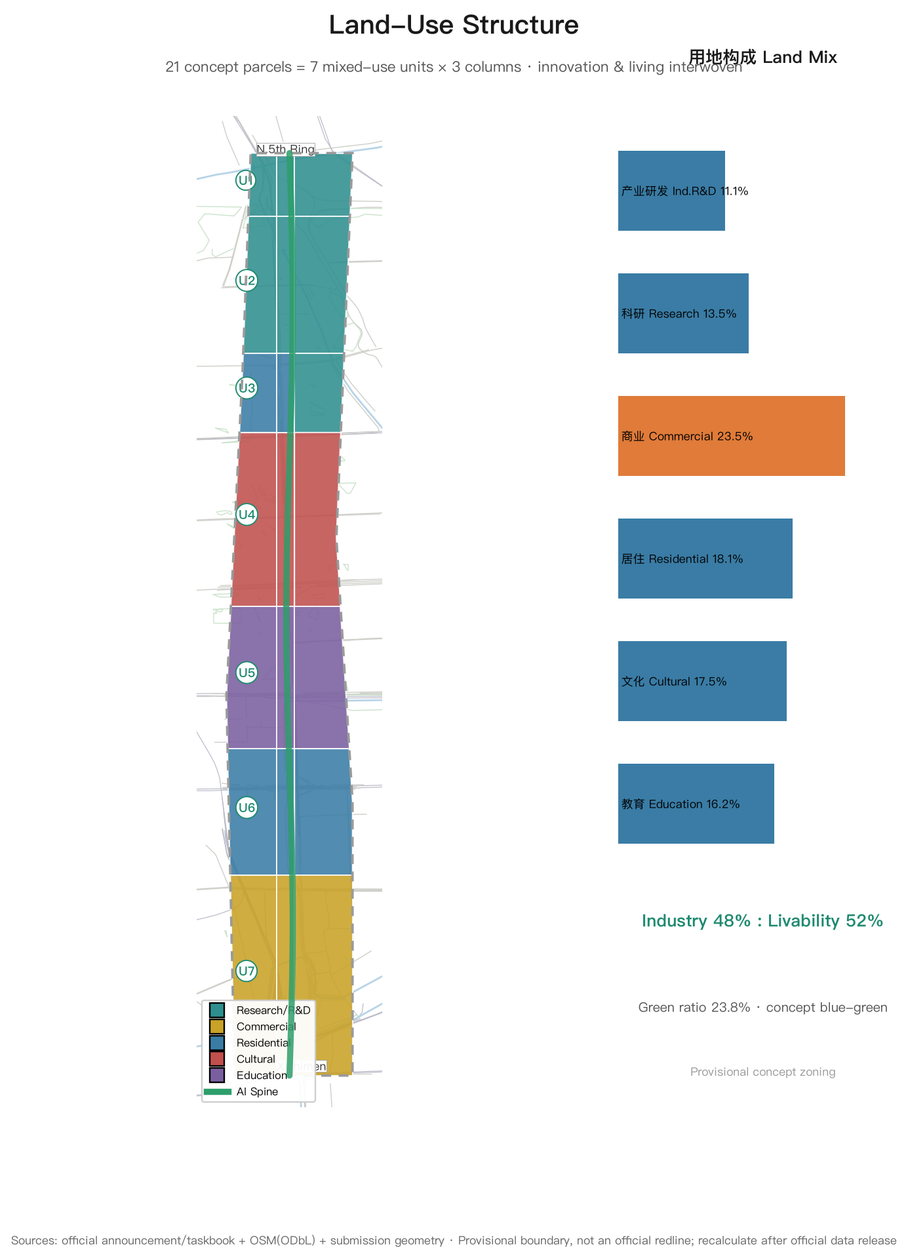
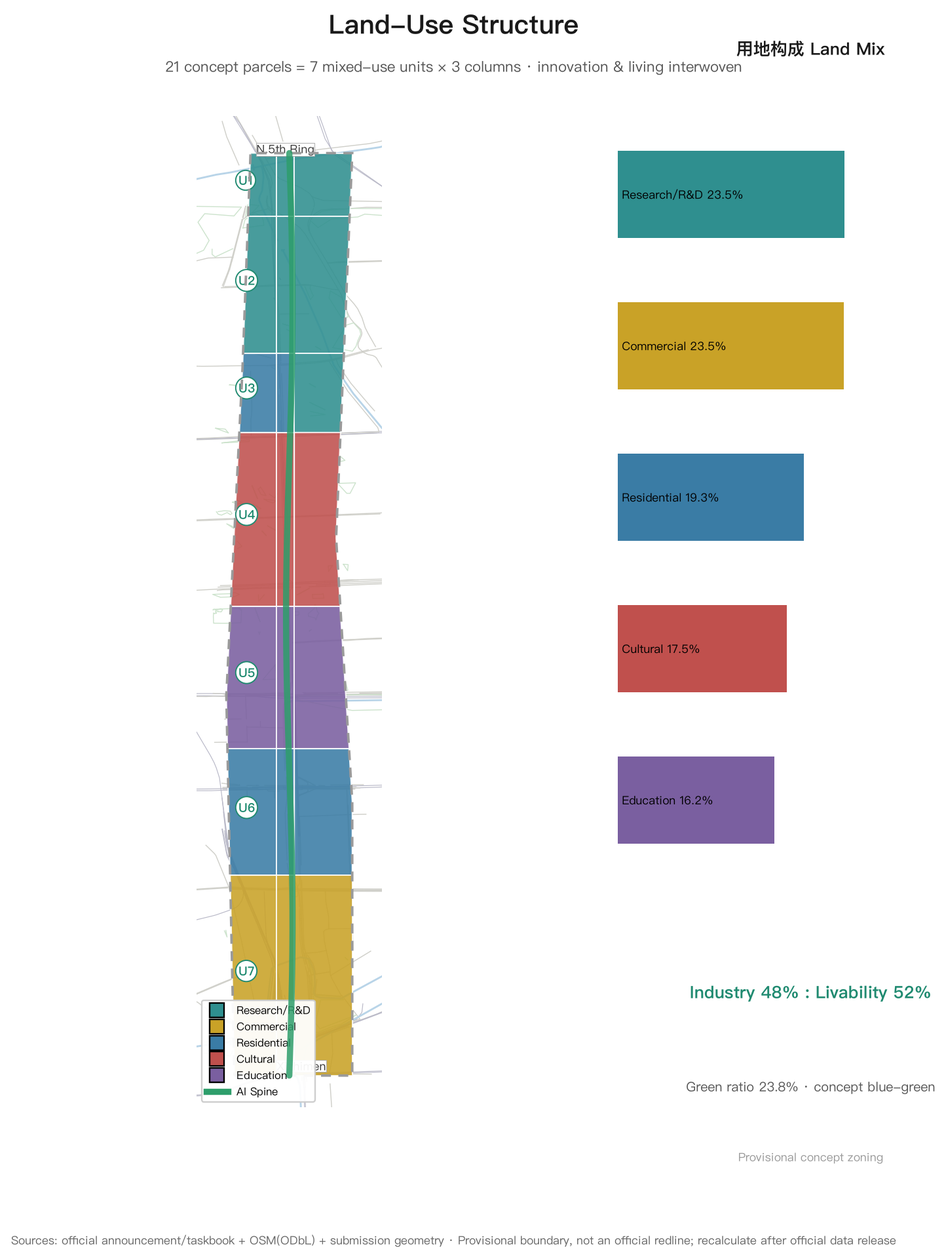
feat: v0.6 全文档一致性对齐+用地结构图配色统一+六条转化机制写实
- iteration v0.1→v0.6（历史遗留）；visual 任务覆盖 8案例/10+→10案例/12场景/6画像（源头同步）
- land-use-structure 用地构成面板改为几何实算 5 类 + C[code] 同色板（主图/图例/面板一致）
- 六条转化机制从一句话归纳扩为机制卡（载体/主体/运作/指标），全部挂接既有章节
- 四门自检 PASS，can_enter_formal_review=true

diff --git a/submissions/haoan/jingzhang-ai-belt/report/proposal.en.html b/submissions/haoan/jingzhang-ai-belt/report/proposal.en.html
@@ -166,9 +166,10 @@ code {
 <li><strong>Nodes</strong>: AI Spine Nodes (15-minute public-space node series)</li>
 </ul>
 <p>Logo direction: the switchback &quot;zigzag&quot; track of the Qinglongqiao on the Jing-Zhang Railway, fused with integrated-circuit traces as a shared graphic motif, expressing the symbiosis of human creation and machine intelligence; palette of railway steel grey-blue and Zhongguancun tech blue. A professional team should deepen the visual identity system (wayfinding, gateway signage, event visuals) [agent.1].</p>
-<h3>Global AI Innovation Ecosystem Cases and Transferable Mechanisms (5-8)</h3>
+<h3>Global AI Innovation Ecosystem Cases and Transferable Mechanisms (10)</h3>
 <div class="proposal-table"><table><thead><tr><th>#</th><th>Case</th><th>Region</th><th>Transferable mechanism</th></tr></thead><tbody><tr><td>1</td><td>Kendall Square</td><td>Boston, USA</td><td>MIT-industry-capital clustering within 500 m; <strong>walkable research-industry circle</strong></td></tr><tr><td>2</td><td>one-north</td><td>Singapore</td><td>Government-led mixed-use R&amp;D community; <strong>work-live-play-learn integrated district governance</strong></td></tr><tr><td>3</td><td>King&#x27;s Cross</td><td>London, UK</td><td>Railway heritage regeneration + tech headquarters (Google et al.); <strong>heritage activation driving industry clustering</strong></td></tr><tr><td>4</td><td>Smart Kalasatama</td><td>Helsinki, Finland</td><td>City district as <strong>open test bed</strong>; agile experimentation and fast iteration</td></tr><tr><td>5</td><td>Nanshan (Yuehai St.)</td><td>Shenzhen, China</td><td>Market-driven hardware/software clustering; <strong>anchor-enterprise ecosystem spillover</strong></td></tr><tr><td>6</td><td>Hangzhou Future Sci-Tech City</td><td>Hangzhou, China</td><td>Digital economy + talent policies; <strong>industry-talent-scenario triad</strong></td></tr><tr><td>7</td><td>Pangyo Techno Valley</td><td>Gyeonggi, Korea</td><td>Government-planned tech valley + smart-city testing; <strong>showcase-driven spatial marketing</strong></td></tr><tr><td>8</td><td>Zhongguancun Software Park</td><td>Beijing, China</td><td>Local experience: <strong>anchor enterprises + professional park operating companies</strong></td></tr><tr><td>9</td><td>Station F</td><td>Paris, France</td><td>Railway heritage converted into the world&#x27;s largest startup campus: <strong>heritage space hosting startup ecosystem + corporate accelerators</strong></td></tr><tr><td>10</td><td>Shenzhen Bay Tech Eco-Park</td><td>Shenzhen, China</td><td>Industry-city integration: R&amp;D offices + talent apartments + public space in one, &quot;<strong>park as community</strong>&quot; operations</td></tr></tbody></table></div>
-<p>Six transferable mechanisms: ① walkable research-industry circles (&lt;15-min walking chain); ② mixed use and talent housing (industry-livability balance); ③ heritage activation as innovation container (railway heritage → innovation corridor); ④ open test beds and scenario release mechanisms; ⑤ anchor-enterprise ecosystem chains plus professional park operators; ⑥ event branding linked to spatial marketing. All cases are background factual references <sup class="evidence evidence-source" data-evidence-kind="source" data-evidence-value="DATA-SRC-GLOBAL-CASES" title="Source: DATA-SRC-GLOBAL-CASES">Source</sup>; only mechanisms are drawn, never copied forms [agent.2].</p>
+<p>All cases are background factual references <sup class="evidence evidence-source" data-evidence-kind="source" data-evidence-value="DATA-SRC-GLOBAL-CASES" title="Source: DATA-SRC-GLOBAL-CASES">Source</sup>; only mechanisms are drawn, never copied forms [agent.2]. The six transferable mechanisms are concretized below (all conceptual, linked to the main chapters):</p>
+<div class="proposal-table"><table><thead><tr><th>#</th><th>Mechanism</th><th>Spatial carrier (concept)</th><th>Actors (concept)</th><th>Operation points (concept)</th><th>Measurable direction (concept)</th></tr></thead><tbody><tr><td>①</td><td>Walkable research-industry circles (&lt;15-min chain)</td><td>AI-Spine stations × shared labs, university north-gate nodes, Origin Plaza</td><td>Universities/institutes, developer community, park operator, student founders</td><td>Co-located joint labs bound to AI-Spine stations; university courses and internships enter the open test bed; professors and student representatives join the human review committee [agent.3]</td><td>Number of joint industry-academia projects, shared lab seats, universities covered per circle</td></tr><tr><td>②</td><td>Mixed use and talent housing</td><td>Residential clusters inside AI-Spine units, low-cost innovation spaces</td><td>Local government, park operator, housing operators</td><td>Talent and founder apartments allocated per unit (concept); 48:52 industry-livability total check; targeted rent safeguards <sup class="evidence evidence-depth" data-evidence-kind="depth" data-evidence-value="phasing_implementation" title="Depth: phasing_implementation">Depth</sup></td><td>Talent housing units, jobs-housing balance index</td></tr><tr><td>③</td><td>Heritage activation as innovation container</td><td>Qinghuayuan station node, heritage-park station buildings, rail exhibition corridor</td><td>Heritage authorities, park operator, cultural institutions</td><td>Station activation list (concept): waiting hall→incubator, platform→gallery, rails→slow exhibition axis; compliant with heritage and character control <sup class="evidence evidence-standard" data-evidence-kind="standard" data-evidence-value="MOHURD-URBAN-DESIGN-MEASURES" title="Standard: MOHURD-URBAN-DESIGN-MEASURES">Standard</sup></td><td>Activated nodes, annual cultural events</td></tr><tr><td>④</td><td>Open test beds and scenario release</td><td>Zhongzhiyuan open test bed, scenario filing platform</td><td>Enterprises, developers, human review committee</td><td>Full lifecycle of scenario cards (filing→trial→monitoring→formalize/exit); KPI thresholds and exit ledger in the Implementation Assurance System [agent.3]</td><td>Scenarios under test, formalization rate</td></tr><tr><td>⑤</td><td>Anchor-enterprise chains + professional park operators</td><td>Dazhongsi Smart Bazaar, Zhongguancun service wing</td><td>Anchor enterprises, AI-Spine operating company, industry funds</td><td>Triangle operation model (government guidance/park operator/developer co-creation); anchor-chain completion with operator-supplied space and compliance services [agent.6]</td><td>Ecosystem-chain coverage, tenant count</td></tr><tr><td>⑥</td><td>Event branding linked to spatial marketing</td><td>Milestone Plaza, open-source gallery, annual event system</td><td>Park operator, developer community, media</td><td>Annual open-source festival / benchmark release / Jing-Zhang Declaration summit (concept); events linked with the OMP honor system; space as marketing carrier [agent.6]</td><td>Annual events, brand exposure count</td></tr></tbody></table></div>
 <h3>Coordinated-Level Structure: Three Cores, Two Wings Synergy Loop</h3>
 <p>The coordinated research area forms a &quot;<strong>one spine, three cores, two wings, cross linkage</strong>&quot; structure:</p>
 <ul>
@@ -248,7 +249,7 @@ code {
 <h2>AI Innovation Ecosystem, Personas, and AI+ Scenarios</h2>
 <h3>AI Innovation Ecosystem</h3>
 <p>Ecosystem elements are organized along eight factors — &quot;<strong>land, space, industry, capital, talent, computing, data, scenarios</strong>&quot;: land/space (three-core/two-wing land guarantee); industry (foundation-model–application–service chain); capital (Zhongguancun IP and capital enablement, Capital &amp; IP Wing); talent (talent apartments + founder apartments + university collaboration); computing (public computing platform, concept); data (public data space with compliant governance); scenarios (Scenario Wing open test beds and scenario release mechanism) [agent.2].</p>
-<h3>User Personas (5)</h3>
+<h3>User Personas (6)</h3>
 <div class="proposal-table"><table><thead><tr><th>Persona</th><th>Profile</th><th>Spatial needs</th><th>Scenario mapping</th></tr></thead><tbody><tr><td>AI engineer/researcher</td><td>25-40, highly educated, long hours</td><td>15-min walk circle, 24h third spaces, low-cost labs</td><td>Shared labs, night-vitality streets</td></tr><tr><td>Founder/entrepreneur</td><td>30-45, capital and hiring driven</td><td>Incubators, pitch spaces, investor clusters</td><td>Origin Plaza pitches, industry service hall</td></tr><tr><td>University student</td><td>18-28, internship and social driven</td><td>Affordable food, public study spaces, events</td><td>AI education lab, hackathons</td></tr><tr><td>Local resident (incl. elderly)</td><td>all ages, daily-life driven</td><td>Markets, parks, barrier-free facilities</td><td>Barrier-free AI services, health navigation</td></tr><tr><td>Developer/visitor</td><td>global, event driven</td><td>Transit connection, wayfinding, commemorative experiences</td><td>AI cultural guide, Open-Source Gallery</td></tr><tr><td>New-economy workers (riders/drivers)</td><td>all-day mobile, rest/recharge driven</td><td>Node charging/water/rest/first aid</td><td>Node services, delivery coordination</td></tr></tbody></table></div>
 <h3>AI Scenario Cards (12, incl. 3 testing/validation scenarios)</h3>
 <div class="proposal-table"><table><thead><tr><th>#</th><th>Scenario card</th><th>Type</th><th>Spatial anchor</th><th>Users</th><th>Data/privacy boundary</th><th>Human review</th><th>Suggested operator</th></tr></thead><tbody><tr><td>1</td><td>AI Spine shuttle (AI+transport)</td><td><strong>Testing</strong></td><td>AI Spine Corridor</td><td>Commuters/visitors</td><td>Anonymous trajectory aggregation</td><td>Transport authority + public participation</td><td>Professional operator</td></tr><tr><td>2</td><td>Campus autonomous shuttle (AI+transport)</td><td><strong>Testing</strong></td><td>Zhongzhiyuan</td><td>Staff/visitors</td><td>Anonymous, campus-limited</td><td>Safety regulator + human fallback</td><td>Test operator</td></tr><tr><td>3</td><td>Delivery robots (AI+daily life)</td><td><strong>Testing</strong></td><td>Xiaoyuehe Wing</td><td>Residents</td><td>No indoor data collection</td><td>Manual pickup fallback</td><td>Delivery platform + property</td></tr><tr><td>4</td><td>AI health navigation (AI+health)</td><td>Application</td><td>Dazhongsi</td><td>Residents/elderly</td><td>Health data localized</td><td>Medical professional review</td><td>Medical + community</td></tr><tr><td>5</td><td>AI education lab (AI+education)</td><td>Application</td><td>Education belt</td><td>Students</td><td>Minor data protection</td><td>Teacher on site</td><td>Universities + industry</td></tr><tr><td>6</td><td>AI legal kiosk (AI+law)</td><td>Application</td><td>Public space</td><td>Founders</td><td>Anonymous consultations</td><td>Lawyer duty review</td><td>Law firms + platforms</td></tr><tr><td>7</td><td>Jing-Zhang AI cultural guide (AI+culture)</td><td>Application</td><td>AI Spine Corridor</td><td>Visitors</td><td>No personal data</td><td>Historian review</td><td>Cultural operator</td></tr><tr><td>8</td><td>City-agent operations center (AI+governance)</td><td>Application</td><td>Zhongzhiyuan</td><td>Managers</td><td>Compliant public data</td><td>Human decision confirmation</td><td>Government + professionals</td></tr><tr><td>9</td><td>AI security patrol (AI+public safety)</td><td>Application</td><td>Whole belt</td><td>Residents</td><td>Minimized video data</td><td>Control-room human review</td><td>Property/police cooperation</td></tr><tr><td>10</td><td>Enterprise service co-pilot (AI+services)</td><td>Application</td><td>Dazhongsi/Zhongguancun Wing</td><td>Enterprises</td><td>Authorized enterprise data</td><td>Service staff review</td><td>Park operator</td></tr><tr><td>11</td><td>AI elder companionship (AI+daily life)</td><td>Application</td><td>AI Spine Nodes</td><td>Elderly residents</td><td>Localized data, family consent</td><td>Community staff + family review</td><td>Community + operator</td></tr><tr><td>12</td><td>Smart public-space maintenance (AI+O&amp;M)</td><td>Application</td><td>Spine corridor green spaces</td><td>All users</td><td>Anonymous environment sensing</td><td>Human maintenance review</td><td>Park operator</td></tr></tbody></table></div>

diff --git a/submissions/haoan/jingzhang-ai-belt/report/proposal.html b/submissions/haoan/jingzhang-ai-belt/report/proposal.html
@@ -166,9 +166,10 @@ code {
 <li><strong>节点</strong>：智脉驿站（AI Spine Node，15 分钟公共空间节点系列）</li>
 </ul>
 <p>Logo 方向：以京张铁路青龙桥&quot;人&quot;字形展线的轨道线形与集成电路走线同构为图形母题，形成&quot;人字轨+电路&quot;双意象，呼应&quot;人的创造&quot;与&quot;机器智能&quot;的共生；主色取京张铁路钢轨灰蓝与中关村科技蓝。视觉识别系统（导视、门户标识、活动视觉）建议由专业团队深化 [agent.1]。</p>
-<h3>全球 AI 创新生态案例与可转化机制（5-8 个）</h3>
+<h3>全球 AI 创新生态案例与可转化机制（10 个）</h3>
 <div class="proposal-table"><table><thead><tr><th>#</th><th>案例</th><th>地区</th><th>可转化机制</th></tr></thead><tbody><tr><td>1</td><td>Kendall Square</td><td>美国波士顿</td><td>顶级大学（MIT）— 企业 — 资本 500 米内聚集；<strong>产学研步行圈</strong>机制</td></tr><tr><td>2</td><td>纬壹科技城 one-north</td><td>新加坡</td><td>政府主导混合用地研发社区，<strong>&quot;工作-生活-游乐-学习&quot;一体</strong>的园区治理</td></tr><tr><td>3</td><td>国王十字 King&#x27;s Cross</td><td>英国伦敦</td><td>铁路遗产区更新 + 科技总部（Google 等）迁入；<strong>遗产活化带动产业集聚</strong></td></tr><tr><td>4</td><td>Smart Kalasatama</td><td>芬兰赫尔辛基</td><td>城市街区作为<strong>开放测试床</strong>，&quot;敏捷实验、快速迭代&quot;的城市开发模式</td></tr><tr><td>5</td><td>深圳南山（粤海街道）</td><td>中国深圳</td><td>市场驱动的硬件与软件产业聚集，<strong>龙头企业生态链外溢</strong></td></tr><tr><td>6</td><td>杭州未来科技城</td><td>中国杭州</td><td>数字经济 + 人才专项政策，<strong>&quot;产业+人才+场景&quot;三位一体招商</strong></td></tr><tr><td>7</td><td>板桥科技谷</td><td>韩国京畿道</td><td>政府规划科技谷 + 智慧城市测试，<strong>示范展示型空间营销</strong></td></tr><tr><td>8</td><td>中关村软件园</td><td>中国北京</td><td>本地经验：<strong>龙头企业+专业园区运营公司</strong>的长期运营模式</td></tr><tr><td>9</td><td>Station F</td><td>法国巴黎</td><td>铁路遗产改造为世界最大初创园区，<strong>遗产空间承载创业生态+大企业加速器</strong></td></tr><tr><td>10</td><td>深圳湾科技生态园</td><td>中国深圳</td><td>产城融合：研发办公+人才公寓+公共空间一体，<strong>园区即社区</strong>的运营经验</td></tr></tbody></table></div>
-<p>转化机制归纳为六条：① 产学研步行圈（&lt;15 分钟步行链）；② 混合用地与人才住房（产业-宜居平衡）；③ 遗产活化作为创新容器（铁路遗址→创新走廊）；④ 开放测试床与场景发布机制；⑤ 龙头生态链+专业园区运营公司；⑥ 活动品牌与空间营销联动。上述案例均为公开事实性背景资料 <sup class="evidence evidence-source" data-evidence-kind="source" data-evidence-value="DATA-SRC-GLOBAL-CASES" title="来源：DATA-SRC-GLOBAL-CASES">来源</sup>，仅提炼机制，不照搬形态 [agent.2]。</p>
+<p>上述案例均为公开事实性背景资料 <sup class="evidence evidence-source" data-evidence-kind="source" data-evidence-value="DATA-SRC-GLOBAL-CASES" title="来源：DATA-SRC-GLOBAL-CASES">来源</sup>，仅提炼机制，不照搬形态 [agent.2]。六条转化机制的具体化设计（全部为概念建议，与正文各章挂接）：</p>
+<div class="proposal-table"><table><thead><tr><th>#</th><th>机制</th><th>空间载体（概念）</th><th>参与主体（概念）</th><th>运作要点（概念）</th><th>可衡量方向（概念）</th></tr></thead><tbody><tr><td>①</td><td>产学研步行圈（&lt;15 分钟步行链）</td><td>智脉驿站×共享实验室、高校北门节点、原点广场</td><td>高校/院所、开发者社区、园区运营公司、学生创业者</td><td>联合实验室选址绑定智脉驿站；高校课程与实习进入开放测试床；教授与学生代表加入人工复核委员会 [agent.3]</td><td>产学研联合项目数、共享实验工位、步行圈覆盖高校数</td></tr><tr><td>②</td><td>混合用地与人才住房</td><td>智脉复合单元内居住组团、低成本创新空间</td><td>属地政府、园区运营公司、住房运营方</td><td>人才公寓与创业者公寓按单元配比（概念）；产业:宜居 48:52 总量校验；租金定向保障 <sup class="evidence evidence-depth" data-evidence-kind="depth" data-evidence-value="phasing_implementation" title="深度：phasing_implementation">深度</sup></td><td>人才住房套数、职住平衡指数</td></tr><tr><td>③</td><td>遗产活化作为创新容器</td><td>清华园车站节点、遗址公园沿线站房、铁轨展示廊</td><td>文保单位、公园运营方、文化机构</td><td>站房活化清单（概念）：候车厅→孵化器、站台→展示廊、铁轨→慢行展陈轴；遵循文保与风貌控制 <sup class="evidence evidence-standard" data-evidence-kind="standard" data-evidence-value="MOHURD-URBAN-DESIGN-MEASURES" title="标准：MOHURD-URBAN-DESIGN-MEASURES">标准</sup></td><td>活化节点数、年度文化事件数</td></tr><tr><td>④</td><td>开放测试床与场景发布机制</td><td>众智园开放测试床、场景备案平台</td><td>企业、开发者、人工复核委员会</td><td>场景卡全生命周期（备案→试运行→监测→转正/退出）；KPI 阈值与退出台账见「实施保障体系」[agent.3]</td><td>在测场景数、转正率</td></tr><tr><td>⑤</td><td>龙头生态链+专业园区运营公司</td><td>大钟寺智市、中关村科技服务翼</td><td>龙头企业、智脉运营公司、产业基金</td><td>三角运营模型（政府引导/园区运营/开发者共创）；龙头牵引补链、运营公司提供空间与合规服务 [agent.6]</td><td>生态链环节覆盖率、入驻企业数</td></tr><tr><td>⑥</td><td>活动品牌与空间营销联动</td><td>里程碑广场、开源成果展示廊、年度活动体系</td><td>智脉运营公司、开发者社区、媒体</td><td>年度开源节/评测发布会/《京张宣言》峰会（概念）；活动与 OMP 荣誉体系联动，空间即营销载体 [agent.6]</td><td>年度活动数、品牌露出频次</td></tr></tbody></table></div>
 <h3>统筹层结构：三区两翼协同回路</h3>
 <p>统筹研究范围形成&quot;<strong>一脉三核、两翼协同、十字联动</strong>&quot;结构：</p>
 <ul>
@@ -248,7 +249,7 @@ code {
 <h2>AI 创新生态、人才画像与 AI+ 场景</h2>
 <h3>AI 创新生态</h3>
 <p>生态要素按&quot;<strong>土地、空间、产业、资金、人才、算力、数据、场景</strong>&quot;八要素组织：土地与空间（三核两翼用地保障）；产业（基础模型—应用—服务链）；资金（中关村 IP 与资本赋能，智翼·创）；人才（人才公寓+创业者公寓+高校协同）；算力（公共算力平台，概念建议）；数据（公共数据空间与合规治理）；场景（智翼·境开放测试床与场景发布机制）[agent.2]。</p>
-<h3>用户画像（5 类）</h3>
+<h3>用户画像（6 类）</h3>
 <div class="proposal-table"><table><thead><tr><th>画像</th><th>特征</th><th>空间需求</th><th>场景映射</th></tr></thead><tbody><tr><td>AI 工程师/研究员</td><td>25-40 岁，高学历，加班多</td><td>15 分钟步行圈、24 小时第三空间、低成本实验室</td><td>共享实验室、夜间活力街区</td></tr><tr><td>创业者/创始人</td><td>30-45 岁，融资与招聘驱动</td><td>孵化器、路演空间、投资人聚集区</td><td>原点广场路演、企业服务大厅</td></tr><tr><td>高校学生</td><td>18-28 岁，实习与社交驱动</td><td>便宜餐食、公共学习空间、活动</td><td>AI 教育实验室、黑客松</td></tr><tr><td>周边居民（含老年）</td><td>全龄段，日常生活驱动</td><td>菜场、公园、无障碍设施</td><td>无障碍 AI 服务、健康导航</td></tr><tr><td>开发者/访客</td><td>全球范围，活动驱动</td><td>交通接驳、导览、纪念性体验</td><td>AI 导览、开源成果展示廊</td></tr><tr><td>新就业群体（骑手/司机）</td><td>全天候流动，休息补能驱动</td><td>驿站充电/饮水/休息/急救</td><td>驿站服务、无人配送协同</td></tr></tbody></table></div>
 <h3>AI 场景卡（12 张，含 3 个测试验证场景）</h3>
 <div class="proposal-table"><table><thead><tr><th>#</th><th>场景卡</th><th>类型</th><th>空间锚点</th><th>用户</th><th>数据/隐私边界</th><th>人工复核</th><th>运营主体（建议）</th></tr></thead><tbody><tr><td>1</td><td>智脉接驳巴士（AI+交通）</td><td><strong>测试验证</strong></td><td>智脉长廊</td><td>通勤者/游客</td><td>匿名轨迹聚合</td><td>交通部门+公众参与</td><td>专业运营公司</td></tr><tr><td>2</td><td>园区自动驾驶接驳（AI+交通）</td><td><strong>测试验证</strong></td><td>众智园</td><td>员工/访客</td><td>匿名、限园区范围</td><td>安全监管+人工兜底</td><td>测试运营方</td></tr><tr><td>3</td><td>无人配送机器人（AI+生活）</td><td><strong>测试验证</strong></td><td>小月河翼</td><td>居民</td><td>不采集室内数据</td><td>驿站人工取件兜底</td><td>配送平台+物业</td></tr><tr><td>4</td><td>AI 健康服务导航（AI+医疗）</td><td>应用场景</td><td>大钟寺</td><td>居民/老年</td><td>健康数据本地化</td><td>医疗专业复核</td><td>医疗机构+社区</td></tr><tr><td>5</td><td>AI 教育实验室（AI+教育）</td><td>应用场景</td><td>高校带</td><td>学生</td><td>未成年人数据保护</td><td>教师在场</td><td>高校+企业</td></tr><tr><td>6</td><td>AI 法律咨询亭（AI+法律）</td><td>应用场景</td><td>公共空间</td><td>创业者</td><td>咨询记录匿名</td><td>律师值班复核</td><td>律所+法务平台</td></tr><tr><td>7</td><td>京张 AI 文化导览（AI+文化）</td><td>应用场景</td><td>智脉长廊</td><td>游客</td><td>无个人信息</td><td>历史专家审校</td><td>文化运营团队</td></tr><tr><td>8</td><td>城市智能体运行中心（AI+治理）</td><td>应用场景</td><td>众智园</td><td>管理者</td><td>公共数据合规</td><td>决策人工确认</td><td>政府+专业机构</td></tr><tr><td>9</td><td>AI 安全巡检（AI+公共安全）</td><td>应用场景</td><td>全带</td><td>居民</td><td>视频数据最小化</td><td>监控室人工复核</td><td>物业/公安协作</td></tr><tr><td>10</td><td>企业服务 Co-pilot（AI+服务）</td><td>应用场景</td><td>大钟寺/中关村翼</td><td>企业</td><td>企业授权数据</td><td>服务专员复核</td><td>园区运营公司</td></tr><tr><td>11</td><td>AI 适老陪伴（AI+生活）</td><td>应用场景</td><td>智脉驿站</td><td>老年居民</td><td>数据本地化、亲属授权</td><td>社区专员+家属复核</td><td>社区+运营商</td></tr><tr><td>12</td><td>公共空间智慧养护（AI+运维）</td><td>应用场景</td><td>智脉长廊绿地</td><td>全体使用者</td><td>环境传感匿名数据</td><td>养护人工复核</td><td>公园运营方</td></tr></tbody></table></div>

diff --git a/submissions/haoan/jingzhang-ai-belt/visual/index.en.html b/submissions/haoan/jingzhang-ai-belt/visual/index.en.html
@@ -64,7 +64,7 @@ footer{text-align:center;font-size:10px;color:#999;padding:16px;}
       </div>
     </div>
     <div class="card"><h2>Three-Level Scope</h2><ul><li>Coordinated research area 43.6 km²</li><li>Overall design area 11.4 km²</li><li>Key detailed design area 368.4 ha</li></ul></div>
-    <div class="card"><h2>Task Coverage</h2><ul><li>agent.1 Master concept & naming (AI Spine)</li><li>agent.2 Global cases & ecosystem (8)</li><li>agent.3 10+ scenario cards / 5+ personas (3 testing)</li><li>agent.4 3 pilgrimage landmarks</li><li>agent.5 Jing-Zhang · Zhongguancun · AI narrative</li><li>agent.6 Annual events & long-term ops</li></ul></div>
+    <div class="card"><h2>Task Coverage</h2><ul><li>agent.1 Master concept & naming (AI Spine)</li><li>agent.2 Global cases & ecosystem (10)</li><li>agent.3 12 scenario cards / 6 personas (3 testing)</li><li>agent.4 3 pilgrimage landmarks</li><li>agent.5 Jing-Zhang · Zhongguancun · AI narrative</li><li>agent.6 Annual events & long-term ops</li></ul></div>
     <div class="card"><h2>Renewal Projects (10 concept types)</h2><ul><li>AI Spine Corridor connection & activation</li><li>Origin Plaza</li><li>Zhongzhiyuan AI test field (open test bed)</li><li>AI Spine Node network (15-min)</li><li>Milestone Park</li><li>Open-Source Achievement Gallery</li><li>Existing-building conversion program</li><li>Xiaoyuehe waterfront trail</li><li>Dazhongsi smart business district renewal</li><li>AI city operations center (concept)</li></ul></div>
     <div class="card"><h2>Self-Check</h2><div><span class="chip">✓ BOUNDARY_TRUST</span><span class="chip">✓ KEY_AREAS_TRUST</span><span class="chip">✓ LAND_USE_TOPOLOGY</span><span class="chip">✓ FORMAT_INTEGRITY</span><span class="chip">✓ VISUAL_PACKAGING</span><span class="chip">✓ PROFESSIONAL_EVIDENCE</span></div>
       <p class="small" style="margin-top:6px;">EPSG:4548 复算 · 与 metrics.json 一致</p></div>

diff --git a/submissions/haoan/jingzhang-ai-belt/visual/index.html b/submissions/haoan/jingzhang-ai-belt/visual/index.html
@@ -64,7 +64,7 @@ footer{text-align:center;font-size:10px;color:#999;padding:16px;}
       </div>
     </div>
     <div class="card"><h2>三层范围</h2><ul><li>统筹研究范围 43.6 km²</li><li>总体设计范围 11.4 km²</li><li>重点区域 368.4 ha</li></ul></div>
-    <div class="card"><h2>任务覆盖</h2><ul><li>agent.1 总体概念与命名体系（京张智脉）</li><li>agent.2 全球案例与创新生态（8案例）</li><li>agent.3 AI 场景卡 10+ / 画像 5+（含3测试场景）</li><li>agent.4 朝圣地标 3 个</li><li>agent.5 京张·中关村·AI 融合叙事</li><li>agent.6 年度活动与长期运营</li></ul></div>
+    <div class="card"><h2>任务覆盖</h2><ul><li>agent.1 总体概念与命名体系（京张智脉）</li><li>agent.2 全球案例与创新生态（10案例）</li><li>agent.3 AI 场景卡 12 张 / 画像 6 类（含3测试场景）</li><li>agent.4 朝圣地标 3 个</li><li>agent.5 京张·中关村·AI 融合叙事</li><li>agent.6 年度活动与长期运营</li></ul></div>
     <div class="card"><h2>更新项目（概念 10 类）</h2><ul><li>智脉长廊贯通与活化</li><li>原点广场</li><li>众智园 AI 测试场（开放测试床）</li><li>智脉驿站网络（15 分钟节点）</li><li>里程碑碑刻公园</li><li>开源成果展示廊</li><li>存量楼宇功能置换计划</li><li>小月河滨水步道贯通</li><li>大钟寺智能商务街区更新</li><li>AI 城市运行管理中心（概念）</li></ul></div>
     <div class="card"><h2>自检状态</h2><div><span class="chip">✓ BOUNDARY_TRUST</span><span class="chip">✓ KEY_AREAS_TRUST</span><span class="chip">✓ LAND_USE_TOPOLOGY</span><span class="chip">✓ FORMAT_INTEGRITY</span><span class="chip">✓ VISUAL_PACKAGING</span><span class="chip">✓ PROFESSIONAL_EVIDENCE</span></div>
       <p class="small" style="margin-top:6px;">EPSG:4548 复算 · 与 metrics.json 一致</p></div>

diff --git a/submissions/haoan/jingzhang-ai-belt/proposal.en.md b/submissions/haoan/jingzhang-ai-belt/proposal.en.md
@@ -9,7 +9,7 @@ license: "COMMUNITY-DISPLAY-ONLY"
 summary: "A concept proposal centered on the Jing-Zhang Railway Heritage Park spine: 'Jing-Zhang AI Spine' with a three-core/two-wing synergy loop, seven AI Spine mixed-use units (innovation and livability interwoven everywhere), 10+ AI scenario cards and 3 AI pilgrimage landmarks, with a global balance check of 48% industry-innovation vs 52% livability support — a high-quality urban district concept that global AI talent aspires to. All spatial proposals are reference schemes for professional teams to deepen."
 tracks: ["jingzhang-heritage-narrative", "ai-origin-community", "enterprise-services-ecosystem"]
 scenarios: ["ai-traffic-walkability", "ai-cultural-guide", "ai-health-service-navigation", "enterprise-service-copilot", "public-safety-operations-review", "robot-delivery-low-speed"]
-iteration: "v0.1"
+iteration: "v0.6"
 ---
 
 # Jing-Zhang AI Spine — Concept Urban Design for the Centennial Jing-Zhang AI Innovation Belt
@@ -111,7 +111,7 @@ Naming system (all conceptual):
 
 Logo direction: the switchback "zigzag" track of the Qinglongqiao on the Jing-Zhang Railway, fused with integrated-circuit traces as a shared graphic motif, expressing the symbiosis of human creation and machine intelligence; palette of railway steel grey-blue and Zhongguancun tech blue. A professional team should deepen the visual identity system (wayfinding, gateway signage, event visuals) [agent.1].
 
-### Global AI Innovation Ecosystem Cases and Transferable Mechanisms (5-8)
+### Global AI Innovation Ecosystem Cases and Transferable Mechanisms (10)
 
 | # | Case | Region | Transferable mechanism |
 |---|---|---|---|
@@ -126,7 +126,16 @@ Logo direction: the switchback "zigzag" track of the Qinglongqiao on the Jing-Zh
 | 9 | Station F | Paris, France | Railway heritage converted into the world's largest startup campus: **heritage space hosting startup ecosystem + corporate accelerators** |
 | 10 | Shenzhen Bay Tech Eco-Park | Shenzhen, China | Industry-city integration: R&D offices + talent apartments + public space in one, "**park as community**" operations |
 
-Six transferable mechanisms: ① walkable research-industry circles (<15-min walking chain); ② mixed use and talent housing (industry-livability balance); ③ heritage activation as innovation container (railway heritage → innovation corridor); ④ open test beds and scenario release mechanisms; ⑤ anchor-enterprise ecosystem chains plus professional park operators; ⑥ event branding linked to spatial marketing. All cases are background factual references [source:DATA-SRC-GLOBAL-CASES]; only mechanisms are drawn, never copied forms [agent.2].
+All cases are background factual references [source:DATA-SRC-GLOBAL-CASES]; only mechanisms are drawn, never copied forms [agent.2]. The six transferable mechanisms are concretized below (all conceptual, linked to the main chapters):
+
+| # | Mechanism | Spatial carrier (concept) | Actors (concept) | Operation points (concept) | Measurable direction (concept) |
+|---|---|---|---|---|---|
+| ① | Walkable research-industry circles (<15-min chain) | AI-Spine stations × shared labs, university north-gate nodes, Origin Plaza | Universities/institutes, developer community, park operator, student founders | Co-located joint labs bound to AI-Spine stations; university courses and internships enter the open test bed; professors and student representatives join the human review committee [agent.3] | Number of joint industry-academia projects, shared lab seats, universities covered per circle |
+| ② | Mixed use and talent housing | Residential clusters inside AI-Spine units, low-cost innovation spaces | Local government, park operator, housing operators | Talent and founder apartments allocated per unit (concept); 48:52 industry-livability total check; targeted rent safeguards [depth:phasing_implementation] | Talent housing units, jobs-housing balance index |
+| ③ | Heritage activation as innovation container | Qinghuayuan station node, heritage-park station buildings, rail exhibition corridor | Heritage authorities, park operator, cultural institutions | Station activation list (concept): waiting hall→incubator, platform→gallery, rails→slow exhibition axis; compliant with heritage and character control [standard:MOHURD-URBAN-DESIGN-MEASURES] | Activated nodes, annual cultural events |
+| ④ | Open test beds and scenario release | Zhongzhiyuan open test bed, scenario filing platform | Enterprises, developers, human review committee | Full lifecycle of scenario cards (filing→trial→monitoring→formalize/exit); KPI thresholds and exit ledger in the Implementation Assurance System [agent.3] | Scenarios under test, formalization rate |
+| ⑤ | Anchor-enterprise chains + professional park operators | Dazhongsi Smart Bazaar, Zhongguancun service wing | Anchor enterprises, AI-Spine operating company, industry funds | Triangle operation model (government guidance/park operator/developer co-creation); anchor-chain completion with operator-supplied space and compliance services [agent.6] | Ecosystem-chain coverage, tenant count |
+| ⑥ | Event branding linked to spatial marketing | Milestone Plaza, open-source gallery, annual event system | Park operator, developer community, media | Annual open-source festival / benchmark release / Jing-Zhang Declaration summit (concept); events linked with the OMP honor system; space as marketing carrier [agent.6] | Annual events, brand exposure count |
 
 ### Coordinated-Level Structure: Three Cores, Two Wings Synergy Loop
 
@@ -235,7 +244,7 @@ The three key-area polygons are provisional rough extents corresponding to the a
 
 Ecosystem elements are organized along eight factors — "**land, space, industry, capital, talent, computing, data, scenarios**": land/space (three-core/two-wing land guarantee); industry (foundation-model–application–service chain); capital (Zhongguancun IP and capital enablement, Capital & IP Wing); talent (talent apartments + founder apartments + university collaboration); computing (public computing platform, concept); data (public data space with compliant governance); scenarios (Scenario Wing open test beds and scenario release mechanism) [agent.2].
 
-### User Personas (5)
+### User Personas (6)
 
 | Persona | Profile | Spatial needs | Scenario mapping |
 |---|---|---|---|

diff --git a/submissions/haoan/jingzhang-ai-belt/changelog.md b/submissions/haoan/jingzhang-ai-belt/changelog.md
@@ -1,5 +1,34 @@
 # 方案迭代记录
 
+## v0.6 - 2026-08-17
+
+### 改动摘要
+
+全文档一致性对齐 + 用地结构图配色统一 + 六条转化机制写实：
+
+- **全链一致性对齐**（版本/数量事实，正文↔展示页↔图件↔清单逐项核对）：
+  - front matter `iteration` v0.1 → v0.6（历史遗留，历次迭代未更新）
+  - `visual/index.html` 任务覆盖旧文案修正：全球案例 8→10、场景卡 10+→12、画像 5+→6（`tools/gen_visual.py` 源头同步，中英双语）
+  - proposal 标题口径统一：「全球 AI 创新生态案例与可转化机制（5-8 个）」→（10 个）、「用户画像（5 类）」→（6 类）
+  - 核对确认一致项：A3 文册 13 页 / A0 展板 8 板（实测 PDF 页数）、案例表 10 行、画像表 6 行、场景卡 12 张、三核面积、指标 data-value
+- **用地结构图配色统一**（`tools/gen_figures.py`）：右侧用地构成面板原为写死的 6 类独立配色（橙/蓝双色），改为从 `land_use.geojson` 按 EPSG:4548 实算 5 类比例（科研/研发 23.5% · 商业 23.5% · 居住 19.3% · 文化 17.5% · 教育 16.2%），颜色直接使用主图图例同款色板 `C[code]`，主图地块/图例/面板三者颜色与比例完全一致（像素级验证）
+- **六条转化机制写实**（proposal.md/en.md 案例节）：从一句话归纳扩为机制卡表格（空间载体/参与主体/运作要点/可衡量方向），每条与正文既有章节挂接（智脉驿站、低成本创新空间、人工复核委员会、场景备案制、三角运营模型、OMP、年度活动体系），产学研写实融入机制①（联合实验室绑定驿站、课程实习入测试床、教授学生入复核委员会）；全部为概念建议，未引入企业名单/金额等新事实
+
+### 采纳反馈
+
+- 采纳评审视角高频问题自查（jiangmuran 水准线系列实证）：正文/图上/展示页数量口径不一致会直接影响视觉证据可信度，本轮全链对齐
+- 采纳视觉自查结论：用地构成面板与主图色板不一致（主图 5 类 vs 面板 6 类、颜色独立），改为几何实算 + 同色板
+
+### 暂未采纳或待复核事项
+
+- 同 v0.4/v0.5：控规新闻通稿数据为引用口径，正式图则以官方文件包为准；官方精确红线仍未公开，全部面积/指标为 provisional 概念值，发布后全量复算。
+
+### 公开资料与合规说明
+
+- 本版本仅使用公开任务书、官方公告、provisional 边界、OSM（ODbL）与概念设计图层；不包含个人隐私、未公开或未授权资料、未审定规划控制指标。
+- 全部空间建议、试点、活动与政策机制均为概念建议，不构成政府审定结论或实施承诺。
+- 机制写实仅整合既有概念要素，未新增任何事实性断言。
+
 ## v0.5 - 2026-08-17
 
 ### 改动摘要
